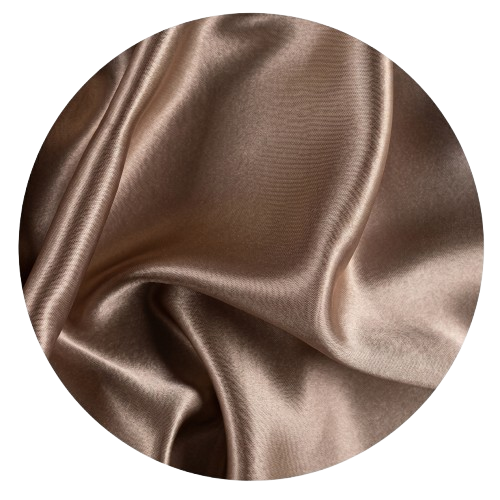
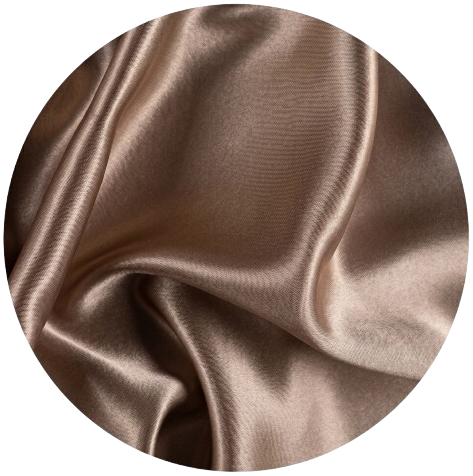
Change size text

diff --git a/src/App.css b/src/App.css
@@ -525,7 +525,7 @@ body {
 /* Контейнер для центрирования контента */
 .rsvp-card {
   text-align: center;
-  color: #c5a059; /* Золотой оттенок */
+  color: #e6c27a; /* Золотой оттенок */
   max-width: 500px;
   margin: 0 auto;
   display: flex;
@@ -552,7 +552,7 @@ body {
 .date-line {
   width: 60px;
   border: none;
-  border-top: 1px solid #c5a059;
+  border-top: 1px solid #e6c27a;
   opacity: 0.5;
   margin: 0;
 }
@@ -619,16 +619,16 @@ body {
 /* Адаптация под мобильные экраны */
 @media (max-width: 768px) {
   .rsvp-main-text {
-    font-size: 2rem;
+    font-size: 2.5rem;
   }
   .rsvp-date {
-    font-size: 2.2rem;
+    font-size: 3rem;
   }
   .date-line {
     width: 40px;
   }
   .section-rsvp-final {
-    padding: 80px 20px;
+    padding: 50px 20px;
   }
 }
 /* Контейнер для SVG */

diff --git a/src/components/DressCodeBlock.jsx b/src/components/DressCodeBlock.jsx
@@ -51,8 +51,10 @@ function DressCodeBlock() {
             МЕЧТЫ
             <br />
             <br />
-            НЕВЕСТЕ БУДЕТ ПРИЯТНО, ЕСЛИ ВЫ ПОДАРИТЕ ЦВЕТОК, КОТОРЫЙ
-            АССОЦИИРУЕТСЯ С НЕЙ
+            ПРОСИМ ВАС НЕ ПРИНОСИТЬ БОЛЬШИЕ БУКЕТЫ. ЕСЛИ ХОТИТЕ ПОРАДОВАТЬ НАС
+            ЦВЕТАМИ, ПОЖАЛУЙСТА, ВЫБЕРИТЕ ОДИН НЕУПАКОВАННЫЙ ЦВЕТОК - ТОТ,
+            КОТОРЫЙ АССОЦИИРУЕТСЯ У ВАС С НЕВЕСТОЙ. ВМЕСТЕ МЫ СОЗДАДИМ ОДИН
+            ПРЕКРАСНЫЙ И СИМВОЛИЧНЫЙ БУКЕТ.
           </p>
         </div>
       </Container>

diff --git a/index.html b/index.html
@@ -8,7 +8,7 @@
       rel="stylesheet"
     />
     <meta name="viewport" content="width=device-width, initial-scale=1.0" />
-    <title>Свадьба Дмитрия и Александры</title>
+    <title>Wedding Dmitriy and Aleksandra</title>
   </head>
   <body>
     <div id="root"></div>
